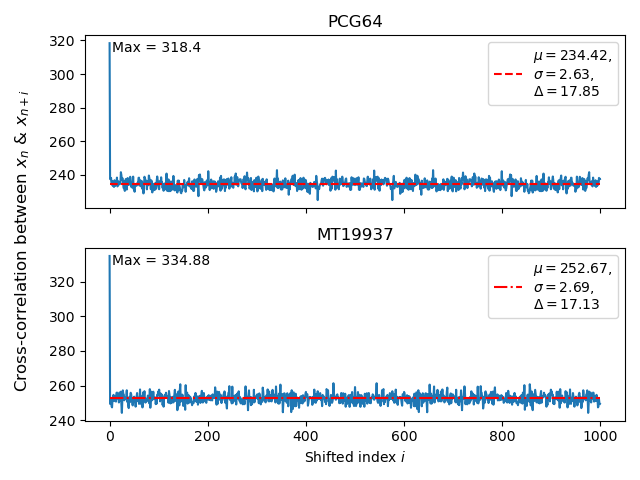
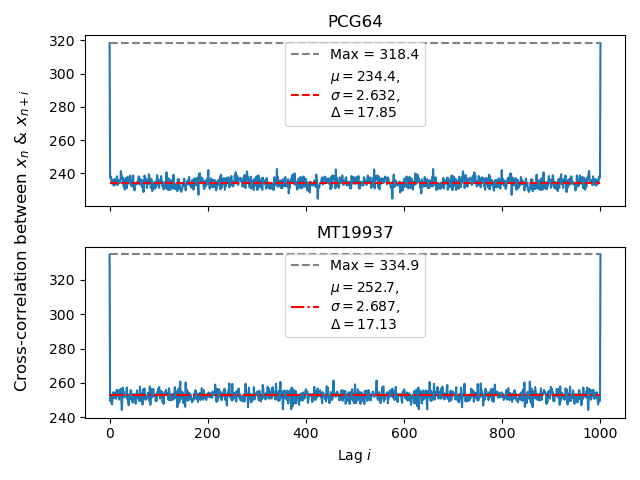
Small changes to graphs

diff --git a/Lab 1/rng_comp.py b/Lab 1/rng_comp.py
@@ -93,9 +93,9 @@ def rng_tests(generator_1, generator_2, seed_1, seed_2, number_of_points):
     correl1 = np.around(np.correlate(x_1, x_15)[0], 2) # Initial array and shifted values
     correl2 = np.around(np.correlate(x_2, x_25)[0], 2)
     # Pearson product moment correlation coefficient between
-    pearsoncoeff_initial = np.around(np.corrcoef(x_1, x_2)[0, 1], 5) # Initial arrays
-    pearsoncoeff1 = np.around(np.corrcoef(x_1, x_15)[0, 1], 5) # Initial array and shifted values
-    pearsoncoeff2 = np.around(np.corrcoef(x_2, x_25)[0, 1], 5)
+    pearsoncoeff_initial = np.round(np.corrcoef(x_1, x_2)[0, 1], 5) # Initial arrays
+    pearsoncoeff1 = np.round(np.corrcoef(x_1, x_15)[0, 1], 5) # Initial array and shifted values
+    pearsoncoeff2 = np.round(np.corrcoef(x_2, x_25)[0, 1], 5)
 
     ####################################
     # Plotting routines
@@ -192,10 +192,11 @@ def shift_comparison(generator_1, generator_2, seed_1, seed_2, number_of_points)
     # Comparing shifted value vs cross-correlation values
     #####################################################
 
-    shift = np.arange(0, number_of_points, 1) # array for the x-axis
-    correlation_1 = np.zeros(number_of_points)
+    shift = np.arange(0, number_of_points+1, 1) # array for the x-axis
+    correlation_1 = np.zeros(number_of_points+1)
     chi_1 = np.zeros_like(correlation_1)
-
+    pearsoncoeff_1 = np.zeros_like(correlation_1)
+    
     # Pseudo-random, uniform range between 0-1 with defined seed
     x_1starttime = perf_counter()
     x_1 = rng1.random(number_of_points)
@@ -203,16 +204,16 @@ def shift_comparison(generator_1, generator_2, seed_1, seed_2, number_of_points)
 
     time_1 = x_1endtime - x_1starttime # Time taken to generate
 
-    pearsoncoeff5 = np.zeros_like(correlation_1)
-    for i in range(number_of_points):
+    
+    for i in range(number_of_points+1):
         x_15 = np.roll(x_1, shift[i]) # Shift values by 1
         correlation_1[i] = np.correlate(x_1, x_15) # Calculate and append stats
         chi_1[i] = chisquare_test(x_15, number_of_points)
-        pearsoncoeff5[i] = np.around(np.corrcoef(x_1, x_15)[0, 1], 5)
+        pearsoncoeff_1[i] = np.around(np.corrcoef(x_1, x_15)[0, 1], 5)
 
-    correlation_2 = np.zeros(number_of_points)
+    correlation_2 = np.zeros(number_of_points+1)
     chi_2 = np.zeros_like(correlation_2)
-    pearsoncoeff6 = np.zeros_like(correlation_2)
+    pearsoncoeff_2 = np.zeros_like(correlation_2)
 
     # Pseudo-random, uniform range between 0-1 with defined seed
     x_2starttime = perf_counter()
@@ -221,33 +222,39 @@ def shift_comparison(generator_1, generator_2, seed_1, seed_2, number_of_points)
 
     time_2 = x_2endtime - x_2starttime
 
-    for i in range(number_of_points):
+    for i in range(number_of_points+1):
         x_25 = np.roll(x_2, shift[i]) # Shift value by 1
         correlation_2[i] = np.correlate(x_2, x_25) # Calculate and append stats
         chi_2[i] = chisquare_test(x_25, number_of_points)
-        pearsoncoeff6[i] = np.around(np.corrcoef(x_2, x_25)[0, 1], 5)
+        pearsoncoeff_2[i] = np.around(np.corrcoef(x_2, x_25)[0, 1], 5)
 
     # Values for visualisation
     range1 = np.round(correlation_1[1:number_of_points].max() - correlation_1.min(), 2)
     range2 = np.round(correlation_2[1:number_of_points].max() - correlation_2.min(), 2)
-    std1 = np.round(np.std(correlation_1[1:number_of_points]), 2)
-    std2 = np.round(np.std(correlation_2[1:number_of_points]), 2)
+    std1 = np.round(np.std(correlation_1[1:number_of_points]), 3)
+    std2 = np.round(np.std(correlation_2[1:number_of_points]), 3)
 
     fig, (ax1, ax2) = plt.subplots(2, 1, sharex=True)
     ax1.plot(shift, correlation_1)
     ax1.set_title(bit_generator_1)
-    ax1.text(shift[5], correlation_1.max() - 5, "Max = {}".format(np.round(correlation_1.max(), 2)))
-    ax1.hlines(np.mean(correlation_1[1:number_of_points]),0,number_of_points,"r","--",
-            label="$\mu = {}$,\n$\sigma = {}$,\n$\Delta = {}$"
-            .format(np.round(np.mean(correlation_1[1:number_of_points]), 2), std1, range1))
+    ax1.hlines(correlation_1.max(), shift[0], shift[number_of_points], 
+               color = 'grey', linestyle = '--', 
+               label = "Max = {}".format(np.round(correlation_1.max(), 1)))
+    ax1.hlines(np.mean(correlation_1[1:number_of_points]),0,number_of_points,
+               color = "r", linestyle = "--", 
+               label="$\mu = {}$,\n$\sigma = {}$,\n$\Delta = {}$"
+               .format(np.round(np.mean(correlation_1[1:number_of_points]), 1), std1, range1))
 
     ax2.plot(shift, correlation_2)
     ax2.set_title(bit_generator_2)
-    ax2.text(shift[5], correlation_2.max() - 5, "Max = {}".format(np.round(correlation_2.max(), 2)))
-    ax2.hlines(np.mean(correlation_2[1:number_of_points]),0,number_of_points,"r","-.",
-            label="$\mu = {}$,\n$\sigma = {}$,\n$\Delta = {}$"
-            .format(np.round(np.mean(correlation_2[1:number_of_points]), 2), std2, range2))
-    ax2.set_xlabel("Shifted index $i$")
+    ax2.hlines(correlation_2.max(), shift[0], shift[number_of_points], 
+               color = 'grey', linestyle = '--', 
+               label = "Max = {}".format(np.round(correlation_2.max(), 1)))
+    ax2.hlines(np.mean(correlation_2[1:number_of_points]),0,number_of_points,
+               color = "r",linestyle = "-.", 
+               label="$\mu = {}$,\n$\sigma = {}$,\n$\Delta = {}$"
+               .format(np.round(np.mean(correlation_2[1:number_of_points]), 1), std2, range2))
+    ax2.set_xlabel("Lag $i$")
 
     fig.supylabel("Cross-correlation between $x_n~&~x_{n+i}$")
     ax1.legend()
@@ -256,37 +263,44 @@ def shift_comparison(generator_1, generator_2, seed_1, seed_2, number_of_points)
     #plt.savefig(fname = '{}_{}_correl'.format(bit_generator_1,bit_generator_2))
     plt.show()
 
-
     ################################################
     # Comparing shifted value vs pearson values
     ################################################
 
-    pearson_range1 = np.round(pearsoncoeff5[1:number_of_points].max() - pearsoncoeff5.min(), 4)
-    pearson_range2 = np.round(pearsoncoeff6[1:number_of_points].max() - pearsoncoeff6.min(), 4)
-    pearson_std1 = np.round(np.std(pearsoncoeff5[1:number_of_points]), 4)
-    pearson_std2 = np.round(np.std(pearsoncoeff6[1:number_of_points]), 4)
+    pearson_range1 = np.round(pearsoncoeff_1[1:number_of_points].max() - pearsoncoeff_1.min(), 4)
+    pearson_range2 = np.round(pearsoncoeff_2[1:number_of_points].max() - pearsoncoeff_2.min(), 4)
+    pearson_std1 = np.round(np.std(pearsoncoeff_1[1:number_of_points]), 5)
+    pearson_std2 = np.round(np.std(pearsoncoeff_2[1:number_of_points]), 5)
 
     fig2, (ax1, ax2) = plt.subplots(2, 1, sharex=True)
-    ax1.plot(shift, pearsoncoeff5)
+    ax1.plot(shift, pearsoncoeff_1)
     ax1.set_title(bit_generator_1)
-    ax1.hlines(np.mean(pearsoncoeff5[1:number_of_points]),0,number_of_points,"r","--",
-            label="$\mu = {}$,\n$\sigma = {}$,\n$\Delta = {}$"
-            .format(np.round(np.mean(pearsoncoeff5[1:number_of_points])*-1, 2),
-                    pearson_std1, pearson_range1))
+    ax1.hlines(pearsoncoeff_1.max(), shift[0], shift[number_of_points], 
+               color = 'grey', linestyle = '--', 
+               label = "Max = {}".format(np.round(pearsoncoeff_1.max(), 2)))
+    ax1.hlines(np.mean(pearsoncoeff_1[1:number_of_points]),0,number_of_points,
+               color = "r", linestyle = "--", 
+               label="$\mu = {}$,\n$\sigma = {}$,\n$\Delta = {}$"
+               .format(np.round(np.mean(pearsoncoeff_1[1:number_of_points])*-1,2),
+                       pearson_std1, pearson_range1))
 
-    ax2.plot(shift, pearsoncoeff6)
+    ax2.plot(shift, pearsoncoeff_2)
     ax2.set_title(bit_generator_2)
-    ax2.hlines(np.mean(pearsoncoeff6[1:number_of_points]),0,number_of_points,"r","--",
-            label="$\mu = {}$,\n$\sigma = {}$,\n$\Delta = {}$"
-            .format(np.round(np.mean(pearsoncoeff6[1:number_of_points])*-1, 2),
-                    pearson_std2, pearson_range2))
+    ax2.hlines(pearsoncoeff_2.max(), shift[0], shift[number_of_points], 
+               color = 'grey', linestyle = '--', 
+               label = "Max = {}".format(np.round(pearsoncoeff_2.max(), 2)))
+    ax2.hlines(np.mean(pearsoncoeff_2[1:number_of_points]),0,number_of_points,
+               color = "r", linestyle = "--", 
+               label="$\mu = {}$,\n$\sigma = {}$,\n$\Delta = {}$"
+               .format(np.round(np.mean(pearsoncoeff_2[1:number_of_points])*-1, 2),
+                       pearson_std2, pearson_range2))
 
-    ax2.set_xlabel("Shifted index $i$")
+    ax2.set_xlabel("Lag $i$")
     fig2.supylabel(r"$\rho_{XY}$ between $x_n~&~x_{n+i}$")
     ax1.legend()
     ax2.legend()
     plt.tight_layout()
-    #plt.savefig(fname = '{}_{}_pearson'.format(bit_generator_1,bit_generator_2))
+    plt.savefig(fname = '{}_{}_pearson'.format(bit_generator_1,bit_generator_2))
     plt.show()
 
     return print('\nTimes:\n{} seed {} = {}µs, \n{} seed {} = {}µs\n'
@@ -294,7 +308,7 @@ def shift_comparison(generator_1, generator_2, seed_1, seed_2, number_of_points)
 
 
 # Generate results
-rng_tests(PCG64,PCG64,6,15832,2000)
-rng_tests(PCG64,MT19937,6,6,2000)
-rng_tests(MT19937,MT19937,5255,7381,2000)
-shift_comparison(PCG64, MT19937, 2010, 2010, 1000)
+#rng_tests(PCG64,PCG64,6,15832,2000)
+#rng_tests(PCG64,MT19937,6,6,2000)
+#rng_tests(MT19937,MT19937,5255,7381,2000)
+#shift_comparison(PCG64, MT19937, 2010, 2010, 1000)
